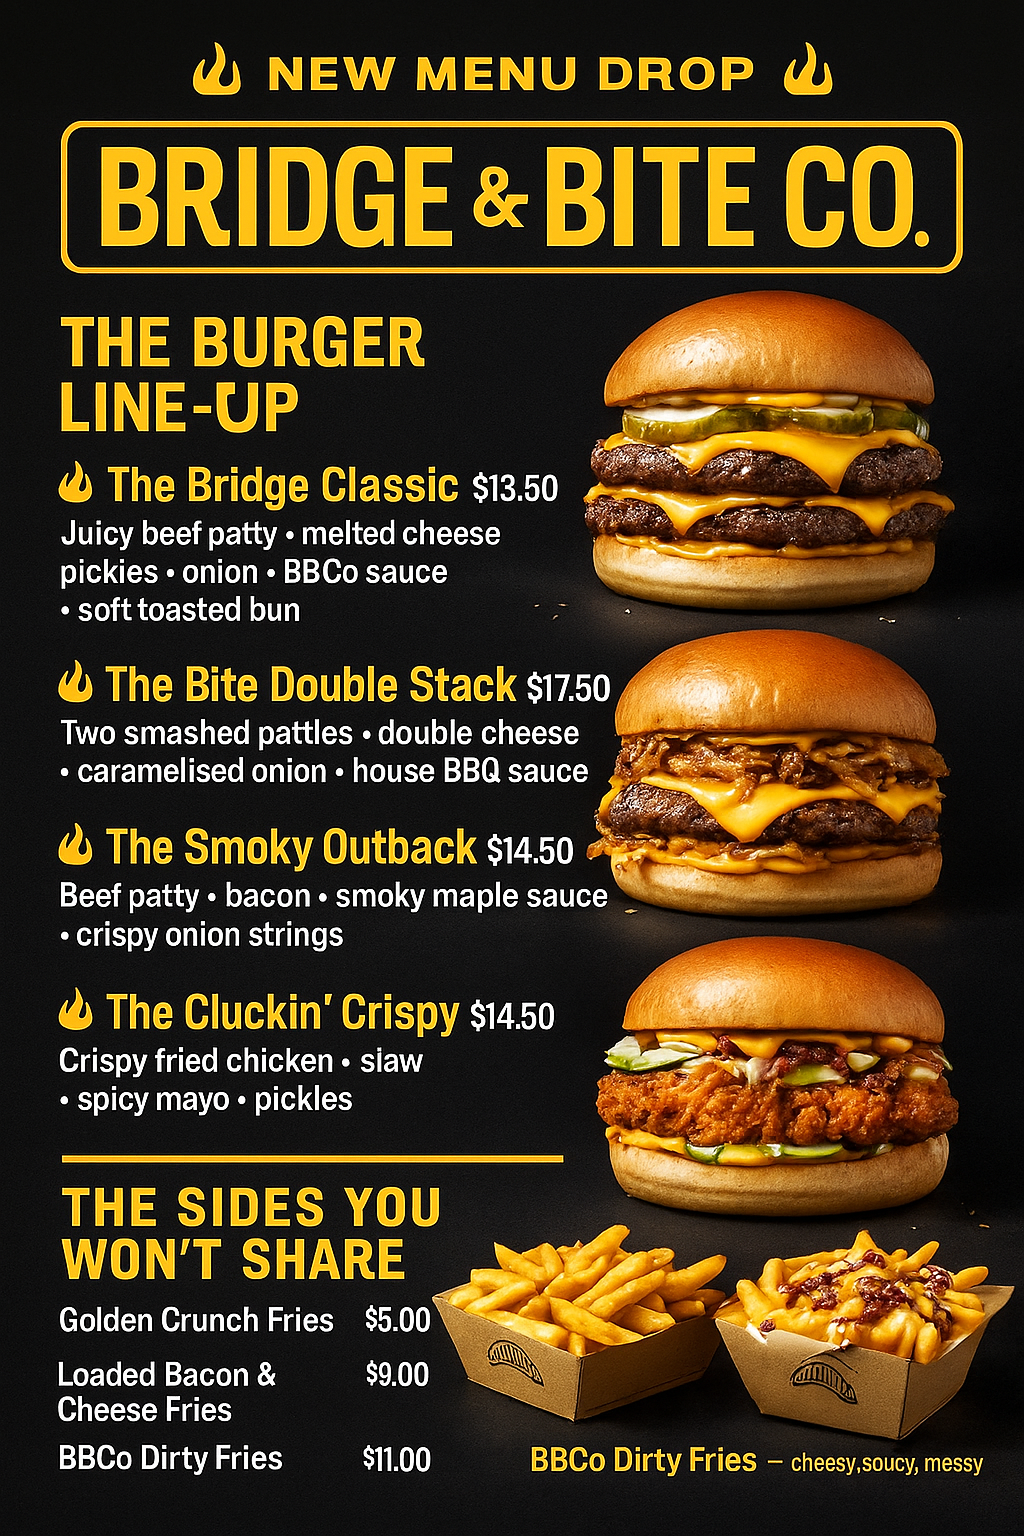
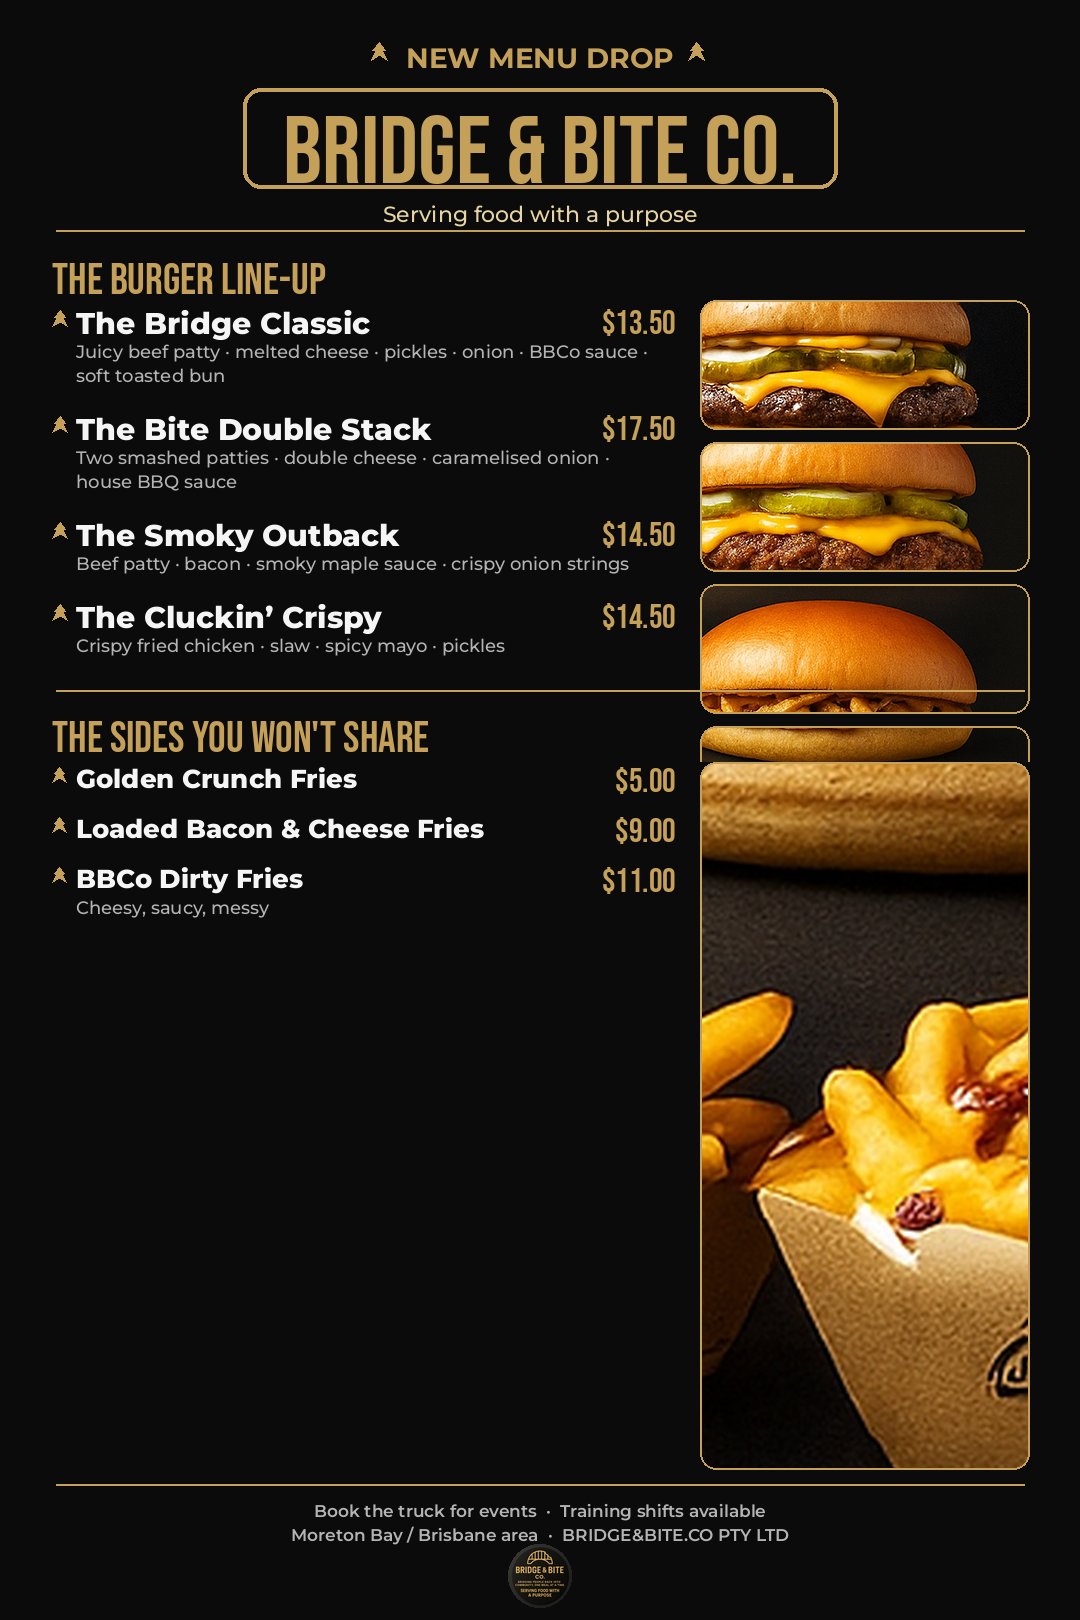
Fix menu posters with letter-perfect black/gold boards
Replace typo-ridden AI menu art with clean Bridge & Bite Co. posters
(menu-board + menu-flyer). Update the menu section to show both posters
and drop the old “mood art / typos” captions; HTML menu stays the
readable source of truth.

diff --git a/index.html b/index.html
@@ -283,7 +283,11 @@
       gap: 1.5rem;
     }
     @media (min-width: 900px) {
-      .menu-layout { grid-template-columns: 1.25fr 0.75fr; align-items: start; }
+      .menu-layout { grid-template-columns: 1.15fr 0.85fr; align-items: start; gap: 1.75rem; }
+    }
+    .menu-posters { display: grid; gap: 1rem; }
+    @media (min-width: 900px) {
+      .menu-posters { position: sticky; top: 5rem; }
     }
     .menu-block {
       background: var(--panel);
@@ -540,7 +544,7 @@
           <h2>Menu</h2>
           <p>
             Burgers and sides from the truck. Prices in AUD.
-            Seasonal tweaks may apply — this board is the readable source of truth.
+            Seasonal tweaks may apply — the list below matches the poster.
           </p>
         </div>
         <div class="menu-layout">
@@ -601,10 +605,16 @@
             </div>
             <p class="menu-note">Book the truck for events · Training shifts available</p>
           </div>
-          <figure class="menu-mood">
-            <img src="assets/menu-board.png" alt="Bridge &amp; Bite Co. menu board mood visual — see HTML menu for correct item names and prices">
-            <figcaption>Menu board mood art · readable prices are listed on the left</figcaption>
-          </figure>
+          <div class="menu-posters">
+            <figure class="menu-mood" style="position:static; top:auto;">
+              <img src="assets/menu-board.png" alt="Bridge &amp; Bite Co. menu board — NEW MENU DROP with burgers and sides">
+              <figcaption>Menu board · NEW MENU DROP</figcaption>
+            </figure>
+            <figure class="menu-mood" style="position:static; top:auto;">
+              <img src="assets/menu-flyer.png" alt="Bridge &amp; Bite Co. menu flyer with burger photos and sides">
+              <figcaption>Menu flyer · same prices, photo layout</figcaption>
+            </figure>
+          </div>
         </div>
       </div>
     </section>
